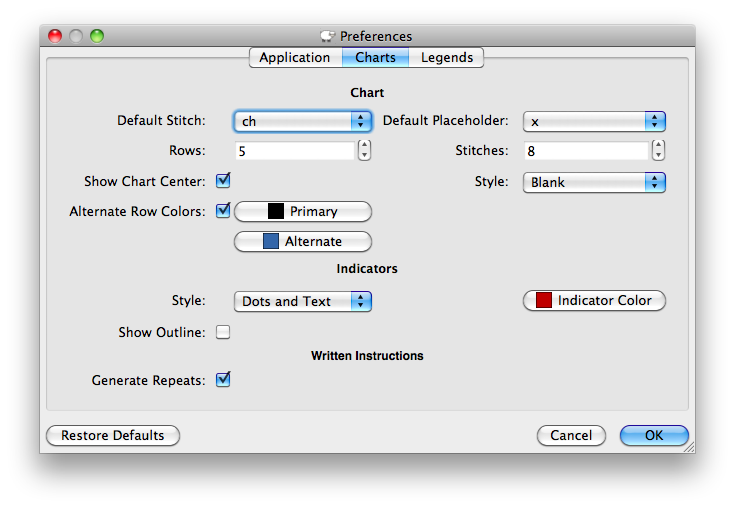
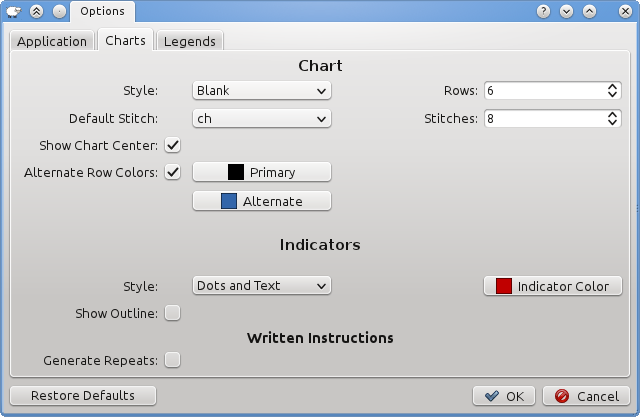
Remove place holder stitch it's completely useless.

diff --git a/src/textview.cpp b/src/textview.cpp
@@ -22,7 +22,6 @@ TextView::~TextView()
 QString TextView::generateTextRow(int row, bool cleanOutput, bool useRepeats)
 {
 
-    QString placeholder = Settings::inst()->value("placeholder").toString();
     QString rowText = "";
     QString curStitch;
 
@@ -38,9 +37,7 @@ QString TextView::generateTextRow(int row, bool cleanOutput, bool useRepeats)
 
         curStitch = cell->name();
         if(cleanOutput) {
-            //parse out any placeholder stitches before continuing.
-            if(curStitch == placeholder)
-                continue;
+            //TODO: any special preprocessing that needs to be done.
         }
         rowList.append(curStitch);
         curStitch = "";

diff --git a/src/settingsui.cpp b/src/settingsui.cpp
@@ -223,8 +223,6 @@ void SettingsUi::setupDialogWidgets()
     QString dotColor = Settings::inst()->value("chartIndicatorColor").toString();
     ui->dotColorBttn->setIcon(QIcon(drawColorBox(QColor(dotColor), QSize(32, 32))));
     mDotColor = dotColor;
-    
-    ui->placeholder->addItems(StitchLibrary::inst()->stitchList());
         
     //Legends
     QStringList list;

diff --git a/src/textview.h b/src/textview.h
@@ -24,7 +24,7 @@ public:
 
     /**
      * Generates the text for a given row of the chart without trailing \n.
-     * If cleanOutput = true remove the placeholder stitches 'x' by default.
+     * If cleanOutput = true do any special processing for the textd.
      **/
     QString generateTextRow(int row, bool cleanOutput = false, bool useRepeats = false);
     

diff --git a/src/settings.cpp b/src/settings.cpp
@@ -124,7 +124,6 @@ void Settings::setupValueList() {
     
     //charts options
     mValueList["defaultStitch"] = QVariant("ch");
-    mValueList["placeholder"] = QVariant("x");
     mValueList["rowCount"] = QVariant(15);
     mValueList["stitchCount"] = QVariant(15);
     mValueList["chartStyle"] = QVariant(tr("Blank"));
